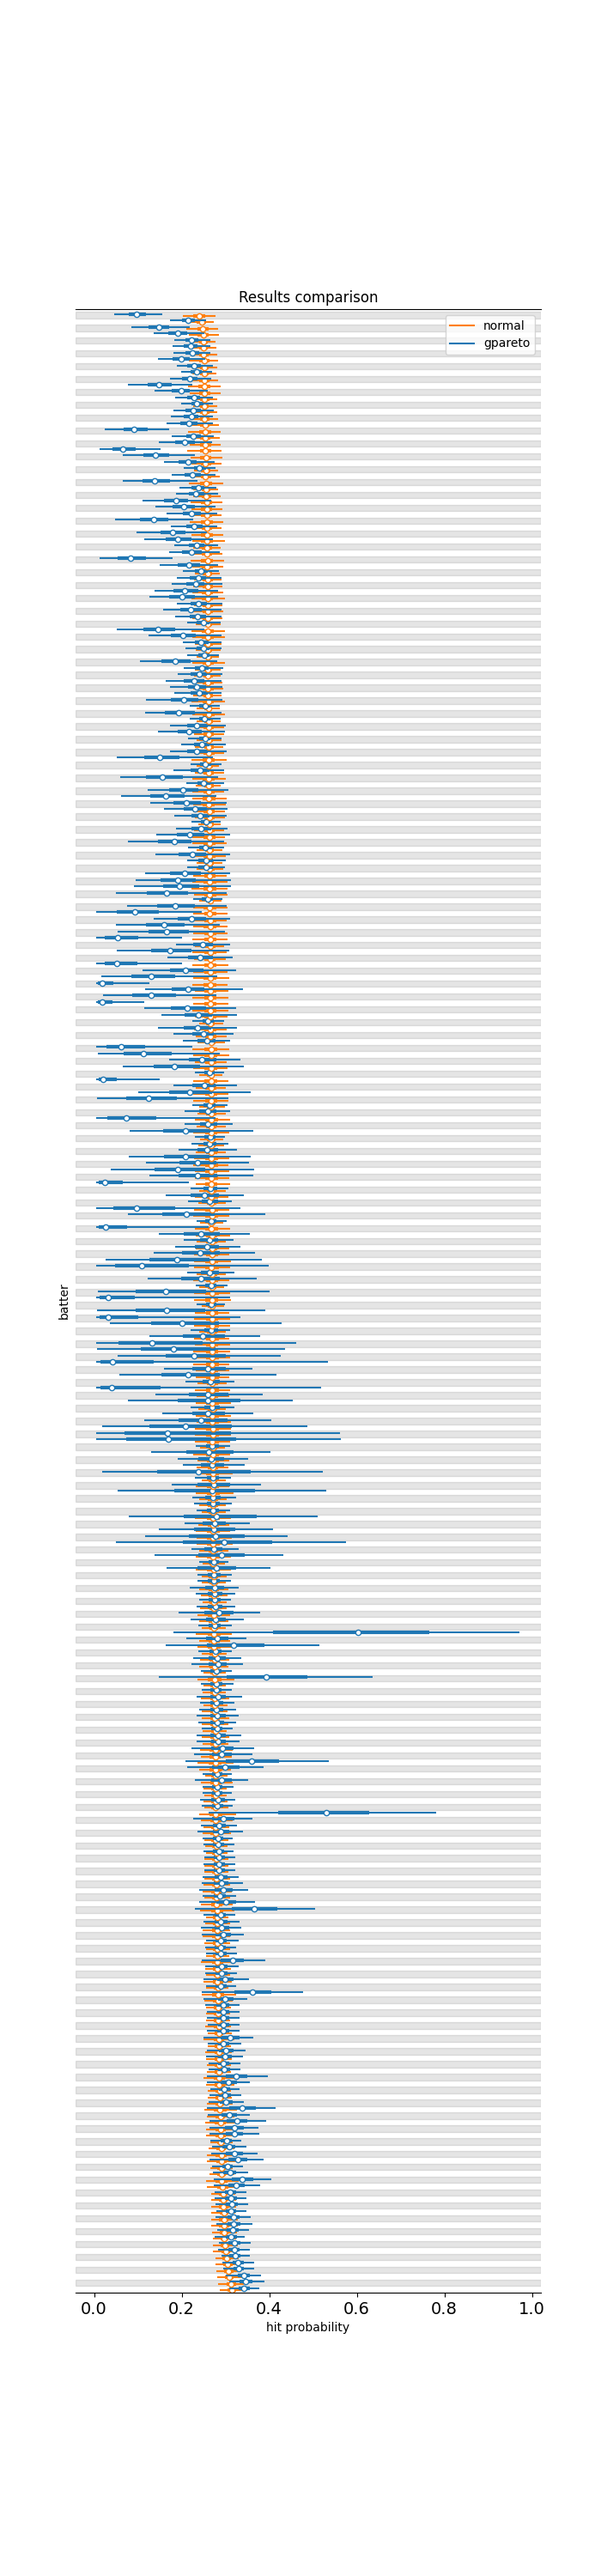
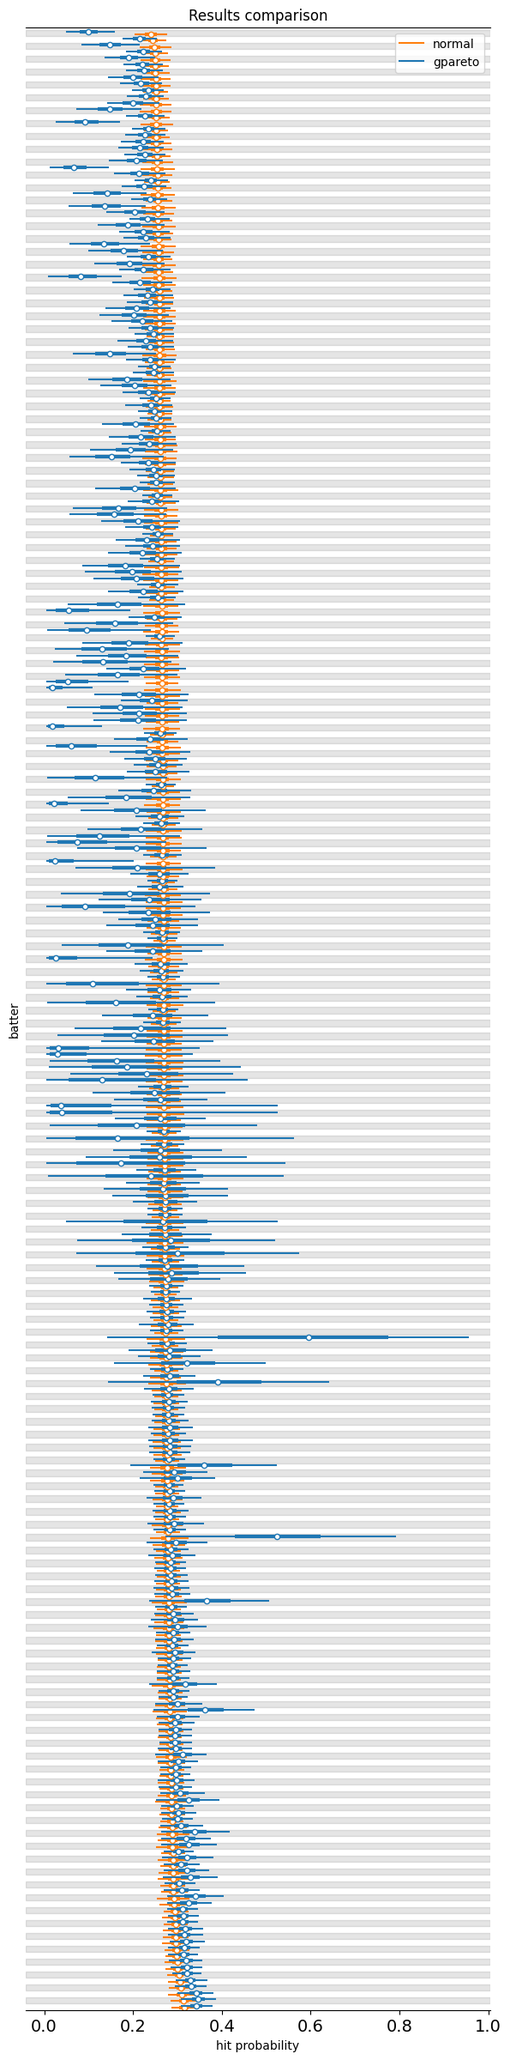
smaller figure

diff --git a/analyse.py b/analyse.py
@@ -35,4 +35,4 @@ def draw_alpha_forestplot():
 
 if __name__ == "__main__":
     f, ax = draw_alpha_forestplot()
-    f.savefig(ALPHA_FORESTPLOT_FILE)
+    f.savefig(ALPHA_FORESTPLOT_FILE, bbox_inches="tight")
